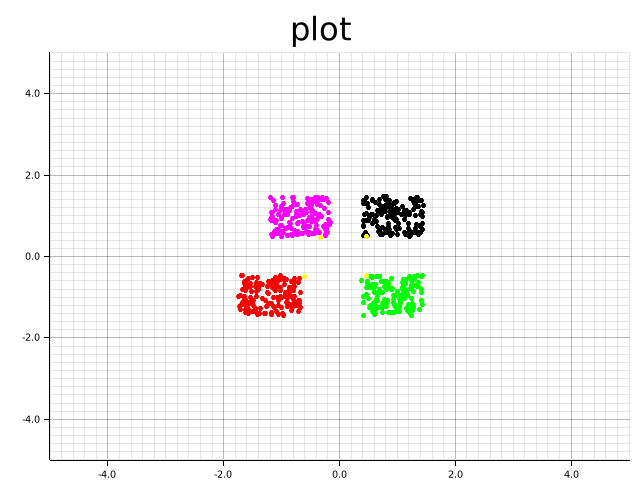
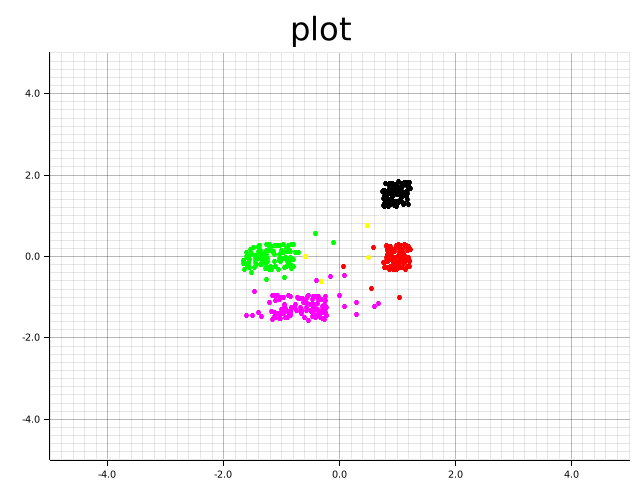
added faster and better implementation of agglomerative clusterer

Changed region(s): [[0.375, 0.375, 0.6875, 0.6875]]

diff --git a/src/cluster_algos/agglomerative.rs b/src/cluster_algos/agglomerative.rs
@@ -1,8 +1,146 @@
 use ndarray::prelude::*;
 use num::ToPrimitive;
 use crate::utils::mathfuncs::*;
-use crate::utils::utility::*;
+use std::boxed::Box;
+use std::rc::Rc;
 
+pub struct Cluster {
+    cluster_1: Option<Rc<Cluster>>,
+    cluster_2: Option<Rc<Cluster>>,
+    pub members: Vec<usize>,
+    index: usize,
+    center: Array1<f32>
+}
+
+impl Cluster {
+    fn new(item: usize, center: Array1<f32>) -> Self {
+        Self {
+            cluster_1: None, 
+            cluster_2: None,
+            members: vec![item],
+            index: 0,
+            center: center
+        }
+    }
+
+    fn next_cluster(cluster_1: Rc<Cluster>, cluster_2: Rc<Cluster>, index: usize) -> Self {
+        let mut members = Vec::new();
+        members.append(cluster_1.members.clone().as_mut());
+        members.append(cluster_2.members.clone().as_mut());
+        let mut center = Array1::zeros(cluster_1.center.len());
+        for i in 0..center.len() {
+            center[i] = *cluster_1.center.get(i).unwrap() + *cluster_2.center.get(i).unwrap();
+        } 
+        Self {
+            cluster_1: Some(Rc::clone(&cluster_1)),
+            cluster_2: Some(Rc::clone(&cluster_2)),
+            members: members,
+            index: index,
+            center: center
+        }
+    }
+}
+
+pub struct AggloClusterer {
+    pub head: Option<Rc<Cluster>>,
+}
+
+impl AggloClusterer {
+    pub fn new() -> Self {
+        Self {
+            head: None
+        }
+    }
+
+    fn insert(&mut self, mut cluster: Cluster) {
+        if let Some(cur) = &self.head {
+            for (i, coord) in cluster.center.iter_mut().enumerate() {
+                *coord += *cur.center.get(i).unwrap();
+            }
+            cluster.members.append(cur.members.clone().as_mut());
+            cluster.cluster_2 = Some(Rc::clone(cur));
+        }
+        self.head = Some(Rc::new(cluster));
+    }
+
+    pub fn retrieve_clusters(&self, n_clusters: usize) -> Vec<Rc<Cluster>> {
+        //println!("retrieveing");
+        if let Some(mut current) = self.head.clone() {
+            if n_clusters == 1 {
+                return vec![Rc::clone(&current)];
+            }
+            //let mut clusters = Vec::new();
+            let mut all_clusters = Vec::new();
+            while all_clusters.len() < n_clusters {
+                if all_clusters.len() > 1 {
+                    all_clusters.remove(0);
+                }
+                if let Some(cluster_1) = &current.cluster_1 {
+                    all_clusters.push(Rc::clone(cluster_1));
+                }
+                if let Some(cluster_2) = &current.cluster_2 {
+                    all_clusters.push(Rc::clone(cluster_2));
+                }
+                all_clusters.sort_by(|a, b| {
+                    b.index.cmp(&a.index)
+                });
+                current = Rc::clone(&all_clusters[0]);
+            }
+            //println!("done");
+            all_clusters
+        }
+        else {
+            Vec::new()
+        }
+    }
+
+    pub fn fit(&mut self, data: &Array2<f32>) {
+        let mut all_clusters: Vec<Rc<Cluster>> = data.axis_iter(Axis(0)).enumerate().map(|(i, _item)| {
+            Rc::new(Cluster::new(i, data.row(i).clone().to_owned()))
+        }).collect();
+        let mut index = 1;
+        let mut min: f32;
+        let mut min_idx: (usize, usize);
+        //println!("{}", all_clusters.len());
+        while all_clusters.len() > 1 {
+            min = f32::MAX;
+            min_idx = (0, 0);
+            for i in 0..all_clusters.len() - 1 {
+                for j in i + 1..all_clusters.len() {
+                    let mut center_1 = all_clusters[i].center.clone();
+                    let mut center_2 = all_clusters[j].center.clone();
+                    center_1 /= all_clusters[i].members.len() as f32;
+                    center_2 /= all_clusters[j].members.len() as f32;
+                    let distance = l2(&center_1, &center_2, false);
+                    if distance < min {
+                        min_idx = (i, j);
+                        min = distance;
+                    }
+                }
+            }
+            let new_cluster = Cluster::next_cluster(Rc::clone(&all_clusters[min_idx.0]), Rc::clone(&all_clusters[min_idx.1]), index);
+            index += 1;
+            all_clusters[min_idx.0] = Rc::new(new_cluster);
+            all_clusters.remove(min_idx.1);
+            //println!("{}", all_clusters.len());
+        }
+        self.head = Some(all_clusters[0].clone());
+    }
+}
+
+pub fn get_partitions(clusters: &Vec<Rc<Cluster>>, data: &Array2<f32>) -> Vec<i32> {
+    //println!("{}", data.len_of(Axis(0)));
+    let mut partitions = Vec::new();
+    for i in 0..data.len_of(Axis(0)) {
+        for (j, cluster) in clusters.iter().enumerate() {
+            if cluster.members.contains(&i) {
+                partitions.push(j as i32);
+            }
+        }
+    }
+    //println!("{}", partitions.len());
+    partitions
+}
 
 pub struct AgglomerativeCluster {
     pub centers: usize,

diff --git a/src/main.rs b/src/main.rs
@@ -7,17 +7,19 @@ use crate::cluster_algos::dbscan::DBScan;
 use crate::cluster_algos::lloyd::Kmeans;
 use crate::utils::mathfuncs::{silhouette_score, create_square, center_scale};
 use crate::utils::utility::*;
+use cluster_algos::agglomerative::{AggloClusterer, get_partitions};
 use num::ToPrimitive;
 use plots::{line_plot, scatter_plot};
 use plotters::prelude::*;
 use ndarray::{array, Array, Array2, Axis, ViewRepr};
 use rand::prelude::*;
+use std::time::Instant;
 pub mod cluster_algos;
 pub mod utils;
 pub mod plots;
 
 fn main() {
-    let cluster_size = 500;
+    let cluster_size = 100;
     let noise_intensity = 20;
     let num_clusters = 4;
     let bounds = vec![vec![vec![1.0, 5.0], vec![1.0, 5.0]], vec![vec![1.0, 3.0], vec![5.0, 6.0]], vec![vec![5.0, 6.0], vec![1.0, 3.0]], vec![vec![5.0, 6.0], vec![5.0, 6.0]]];
@@ -27,16 +29,17 @@ fn main() {
 
     center_scale(&mut data);
 
-    let mut model = DBScan::new(&data);
-    model.set_epsilon(10e-2);
-    model.set_min_points(20);
+    let mut model_4 = DBScan::new(&data);
+    //model_4.set_epsilon(10e-2);
+    //model_4.set_min_points(20);
 
 
-    let mut model_2 = Kmeans::new(&data, num_clusters);
-    model_2.set_fitting_time(1000, 20);
+    let mut model_3 = Kmeans::new(&data, num_clusters);
+    model_3.set_fitting_time(1000, 20);
 
+    let mut model = AggloClusterer::new();
 
-    let mut model = AgglomerativeCluster::new(&data, num_clusters.to_usize().unwrap());
+    //let mut model = AgglomerativeCluster::new(&data, num_clusters.to_usize().unwrap());
     
     /*
     let mut model = DBScan {
@@ -49,12 +52,12 @@ fn main() {
     };
     */
     
-    /* 
-    let mut model = AgglomerativeCluster {
-        centers: num_clusters,
+    
+    let mut model_2 = AgglomerativeCluster {
+        centers: num_clusters as usize,
         clusters: vec![vec![array![0.0]]]
     };
-    */
+    
 
     /*
     let mut model = Kmeans  {
@@ -68,15 +71,41 @@ fn main() {
         retries: 10
     };
     */
-    let partitions = model.fit_predict(&data);
-    print_vec(&partitions);
-    println!("models is fitted");
+    
+    let now = Instant::now();
+    let partitions_2 = model_2.fit_predict(&data);
+    //print_vec(&partitions);
+    println!("agglomerative old is fitted");
+    println!("{:?}", now.elapsed());
+    let now = Instant::now();
+    model.fit(&data);
+    println!("agglo new is fitted");
+    println!("{:?}", now.elapsed());
+    let now = Instant::now();
+    let result = model.retrieve_clusters(num_clusters as usize);
+    let partitions = get_partitions(&result, &data);
+    println!("result generated");
+    println!("{:?}", now.elapsed());
+    let now = Instant::now();
+    let partitions_3 = model_3.fit_predict(&data);
+    let centroids_kmeans = model_3.centroids;
+    //print_vec(&partitions);
+    println!("kmeans is fitted");
+    println!("{:?}", now.elapsed());
+    let now = Instant::now();
+    let partitions_4 = model_4.fit_predict(&data);
+    //print_vec(&partitions);
+    println!("dbscan old is fitted");
+    println!("{:?}", now.elapsed());
     //print_array(&model.centroids);
     println!("");
     //print_vec(&partitions);
     let centroids = array![[0.0, 0.0]];
     //println!("");
-    let _ = scatter_plot("DBScan_fitted", &data, &partitions, &centroids);
+    let _ = scatter_plot("AggloScan_fitted", &data, &partitions, &centroids, false);
+    let _ = scatter_plot("AgglomerativeScan_fitted", &data, &partitions_2, &centroids, false);
+    let _ = scatter_plot("kmeans_fitted", &data, &partitions_3, &centroids_kmeans, true);
+    let _ = scatter_plot("DBScan_fitted", &data, &partitions_4, &centroids, false);
     println!("plot generated");
 
 

diff --git a/src/plots.rs b/src/plots.rs
@@ -42,7 +42,7 @@ pub fn line_plot(x: &Array2<f64>, y: &Array1<f64>, pred: &Array1<f64>, name: Str
     Ok(())
 }
 
-pub fn scatter_plot(name: &str, data: &Array2<f32>, partitions: &Vec<i32>, centroids: &Array2<f32>) -> Result<(), Box<dyn std::error::Error>> {
+pub fn scatter_plot(name: &str, data: &Array2<f32>, partitions: &Vec<i32>, centroids: &Array2<f32>, plot_centroids: bool) -> Result<(), Box<dyn std::error::Error>> {
 
     let mut path = String::from("./images/");
 
@@ -85,16 +85,17 @@ pub fn scatter_plot(name: &str, data: &Array2<f32>, partitions: &Vec<i32>, centr
                 .map(|(x, y)| Circle::new((*x, *y), 2, styles[i.to_usize().unwrap()].filled())),
         )?;
     }
-    /*
-    for i in 0..max.to_usize().unwrap() + 1{
-        let series_data: Vec<(f64, f64)> = vec![(centroids[[i, 0]].to_f64().unwrap(), centroids[[i, 1]].to_f64().unwrap())];
-        chart.draw_series(
-            series_data
-                .iter()
-                .map(|(x, y)| Circle::new((*x, *y), 2, (&YELLOW).filled())),
-        )?;
+    if plot_centroids {
+        for i in 0..max.to_usize().unwrap() + 1{
+            let series_data: Vec<(f64, f64)> = vec![(centroids[[i, 0]].to_f64().unwrap(), centroids[[i, 1]].to_f64().unwrap())];
+            chart.draw_series(
+                series_data
+                    .iter()
+                    .map(|(x, y)| Circle::new((*x, *y), 2, (&YELLOW).filled())),
+            )?;
+        }
     }
-    */
+    
 
     root.present()?;
     Ok(())

diff --git a/src/utils/mathfuncs.rs b/src/utils/mathfuncs.rs
@@ -34,7 +34,7 @@ pub fn l2(x1: &Array1<f32>, x2: &Array1<f32>, grad: bool) -> f32 {
         return 0.0;
     }
     else {
-        return 0.5 * squared1d(x1 - x2).sum().sqrt();
+        return squared1d(x1 - x2).sum().sqrt();
     }
 }
 
